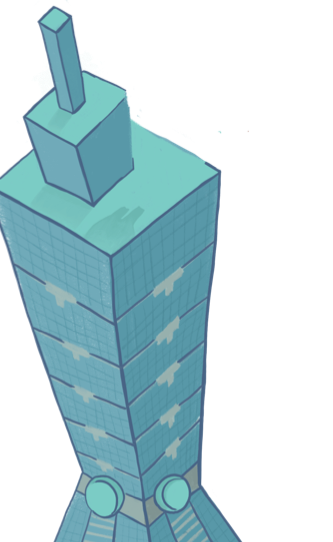
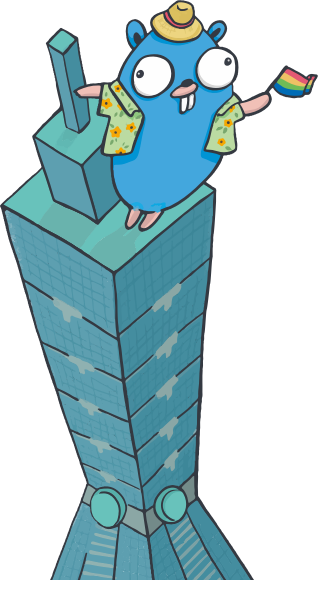
feat(sponsorImg): use sponsor svgs and new themed bg imgs

diff --git a/src/pages/Sponsor.vue b/src/pages/Sponsor.vue
@@ -19,14 +19,6 @@
           "
           class="sponsor-1"
         />
-        <img
-          src="https://gophercon.golang.tw/2020/img/graphic-sponsor-2.png"
-          srcset="
-            https://gophercon.golang.tw/2020/img/graphic-sponsor-2@2x.png 2x,
-            https://gophercon.golang.tw/2020/img/graphic-sponsor-2@3x.png 3x
-          "
-          class="sponsor-2"
-        />
       </div>
     </div>
     <div class="content">
